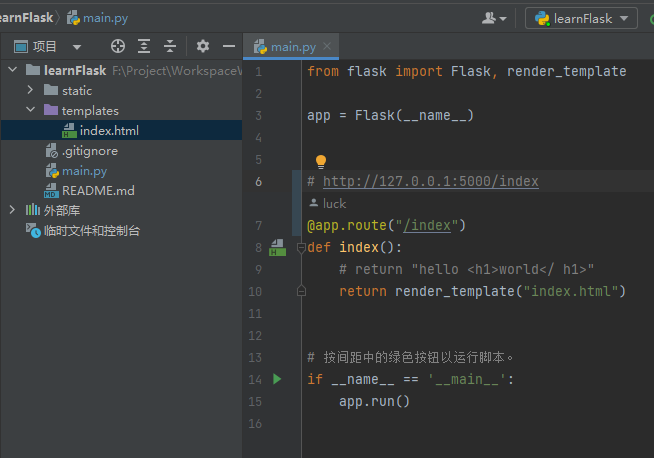
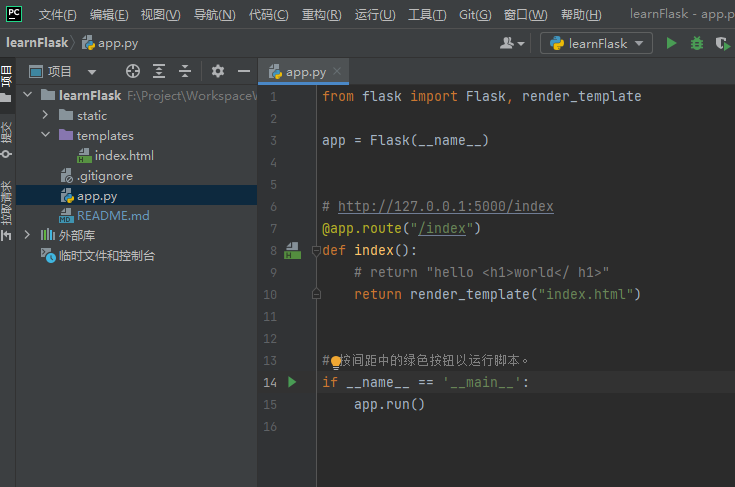
init

diff --git a/templates/user_list.html b/templates/user_list.html
@@ -1,0 +1,32 @@
+<!DOCTYPE html>
+<html lang="en">
+<head>
+    <meta charset="UTF-8">
+    <title>Title</title>
+</head>
+<body>
+<h1>{{title}}</h1>
+    <table>
+        <thead>
+            <th>ID</th>
+            <th>用户名</th>
+            <th>年龄</th>
+        </thead>
+        <tbody>
+        {% for item in data_list %}
+            <tr>
+                <td>{{ item.id }}</td>
+                <td>{{ item.name }}</td>
+                <td>{{ item.age }}</td>
+                <td>
+                    <a href="/user/delete/?nid={{ item.id }}">删除</a>
+                </td>
+                <td>
+                    <a href="/user/change/?nid={{ item.id }}">修改</a>
+                </td>
+            </tr>
+        {% endfor %}
+        </tbody>
+    </table>
+</body>
+</html>

diff --git a/templates/login.html b/templates/login.html
@@ -1,0 +1,17 @@
+<!DOCTYPE html>
+<html lang="en">
+<head>
+    <meta charset="UTF-8">
+    <title>Title</title>
+</head>
+<body>
+
+<h1>用户登录</h1>
+<form method="post" action="/login">
+    用户名：<input type="text" name="user">
+    密码：<input type="password" name="password">
+    年龄：<input type="text" name="age">
+    <input type="submit" value="提交"/>
+</form>
+</body>
+</html>

diff --git a/templates/index.html b/templates/index.html
@@ -6,6 +6,5 @@
 </head>
 <body>
 <h1>hello world</h1>
-
 </body>
 </html>

diff --git a/app.py b/app.py
@@ -1,13 +1,88 @@
-from flask import Flask, render_template
+from flask import Flask, render_template, request, redirect
+import pymysql
 
 app = Flask(__name__)
+sql_config = {
+    "host": "127.0.0.1",
+    "port": 3306,
+    "user": "root",
+    "password": "123456",
+    "db": "test",
+    "charset": "utf8mb4",
+    "cursorclass": pymysql.cursors.DictCursor
+}
 
 
 # http://127.0.0.1:5000/index
-@app.route("/index")
+@app.route("/index/")
 def index():
     # return "hello <h1>world</ h1>"
     return render_template("index.html")
+
+
+@app.route("/login/", methods=["GET", "POST"])
+def login():
+    if request.method == "GET":
+        # user = request.args.get("user")
+        # age = request.args.get("age")
+        # score = request.args.get("pwd")
+        return render_template("login.html")
+    elif request.method == "POST":
+        user = request.form.get("user")
+        password = request.form.get("password")
+        age = request.form.get("age")
+        # 增（千万不要用字符串格式化容易被SQL注入比如format，应该用占位符）
+        conn = pymysql.connect(**sql_config)
+        cursor = conn.cursor()
+        sql_str = "insert into dashboard_userinfo(name, password, age) values(%(name)s,  %(password)s, %(age)s)"
+        cursor.execute(sql_str, {"name": user, "password": password, "age": int(age)})
+        conn.commit()
+        cursor.close()
+        conn.close()
+        return redirect("/user/list")
+    return "界面异常"
+
+
+@app.route("/user/list/")
+def user_list():
+    conn = pymysql.connect(**sql_config)
+    cursor = conn.cursor()
+    # 查
+    sql_str = "select * from dashboard_userinfo"
+    cursor.execute(sql_str)
+    data_list = cursor.fetchall()
+    print(data_list)
+    cursor.close()
+    conn.close()
+    return render_template("user_list.html", title="传入的标题", data_list=data_list)
+
+
+@app.route("/user/delete/")
+def user_delete():
+    nid = request.args.get("nid")
+    # 删
+    conn = pymysql.connect(**sql_config)
+    cursor = conn.cursor()
+    sql_str = "delete from dashboard_userinfo where id=%s"
+    cursor.execute(sql_str, [nid])
+    conn.commit()
+    cursor.close()
+    conn.close()
+    return redirect("/user/list")
+
+
+@app.route("/user/change/")
+def user_change():
+    nid = request.args.get("nid")
+    # 改
+    conn = pymysql.connect(**sql_config)
+    cursor = conn.cursor()
+    sql_str = "update dashboard_userinfo set age=%s where id=%s"
+    cursor.execute(sql_str, [0, nid])
+    conn.commit()
+    cursor.close()
+    conn.close()
+    return redirect("/user/list")
 
 
 # 按间距中的绿色按钮以运行脚本。

diff --git a/README.md b/README.md
@@ -3,175 +3,11 @@
 ## 创建项目
 
 - 本地安装flask库：python -m pip install flask
-- pycharm创建项目选择本地解释器
-- 新建main.py
+- pycharm创建项目注册app绑定url
+![Alt text](/static/img/Flask/flask安装1.png)
+- templates文件夹存放html文件
+- static文件夹存放代码图片和库
 
-```{.html}
-from flask import Flask, render_template
+### MySql
 
-app = Flask(__name__)
-
-
-# http://127.0.0.1:5000/show/info
-@app.route("/show/info")
-def index():
-    # return "hello <h1>world</ h1>"
-    # index.html在templates文件夹下
-    return render_template("index.html")
-
-
-# 按间距中的绿色按钮以运行脚本。
-if __name__ == '__main__':
-    app.run()
-```
-
-- 打开pycharm终端运行pip install flask
-- 根目录新建learn_web.py
-
-```{.py}
-# -*- coding: UTF-8 -*
-# templates文件夹存放html文件
-# static文件夹存放图片
-from flask import Flask, render_template  # pip install flask
-import pymysql # pip install pymysql
-
-# 新建app类
-app = Flask(__name__)
-sql_config = {
-    "host": "127.0.0.1",
-    "port": 3306,
-    "user": "root",
-    "password": "123456",
-    "db": "test",
-    "charset": "utf8mb4",
-    "cursorclass": pymysql.cursors.DictCursor
-}
-
-# 创建了网址 /show/info 和函数index的对应关系
-@app.route("/show/info")
-def index():
-    # 读取文本的字符串并返回
-    # return "内容"
-    # 连接mysql
-    conn = pymysql.connect(**sql_config)
-    cursor = conn.cursor()
-    # 查
-    sql_str = "select * from tb1"
-    cursor.execute(sql_str)
-    data_list = cursor.fetchall()
-    print(data_list)
-    # 关闭
-    cursor.close()
-    conn.close()
-    return render_template("index.html", title="传入的标题", data_list=data_list)
-
-@app.route("/show/more")
-def show_more():
-    return "<h1>标题</h1>返回简单字符串"
-
-if __name__ == '__main__':
-    app.run()
-```
-
-- get请求：向后台传入的数据会拼接在url上，数据之间用&,网址和数据之间用?
-- post请求：提交的数据不在url中而是在请求体中
-
-```{.py}
-# 只能通过get方式调用
-@app.route("/get/reg", methods=["GET"])
-def get_reg():
-    # 读取文本的字符串并返回
-    print(request.args.get("user"))
-    print(request.args.get("pwd"))
-    return "注册成功"
-
-
-# 只能通过post方式调用
-@app.route("/post/reg", methods=["POST"])
-def post_reg():
-    # 读取文本的字符串并返回
-    print(request.form.get("user"))
-    print(request.form.get("pwd"))
-    return "注册成功"
-
-
-# get或者post方式调用
-@app.route("/reg", methods=["GET", "POST"])
-def reg():
-    user = ""
-    pwd = ""
-    age = ""
-    # 连接mysql
-    conn = pymysql.connect(**sql_config)
-    cursor = conn.cursor()
-
-    if request.method == "GET":
-        user = request.args.get("user")
-        pwd = request.args.get("pwd")
-        age = request.args.get("age")
-        # 增（千万不要用字符串格式化容易被SQL注入比如format，应该用占位符）
-        sql_str = "insert into tb1(name, age) values(%(name)s, %(age)s)"
-        cursor.execute(sql_str, {"name": user, "age": int(age)})
-        conn.commit()
-    elif request.method == "POST":
-        user = request.form.get("user")
-        pwd = request.form.get("pwd")
-        age = request.form.get("age")
-        # 删
-        sql_str = "delete from tb1 where id=%s"
-        cursor.execute(sql_str, [1])
-        conn.commit()
-        # 改
-        sql_str = "update tb1 set score=%d where id=%s"
-        cursor.execute(sql_str, [0, 1])
-        conn.commit()
-    # 关闭
-    cursor.close()
-    conn.close()
-    return "添加成功"
-```
-
-```{.html}
-<!DOCTYPE html>
-<html lang="en">
-<head>
-    <meta charset="UTF-8">
-    <title>Title</title>
-</head>
-<body>
-    <!-- form标签包裹数据，里面定义提交方式，提交地址 -->
-    <!-- 必须包含一个submit, 一定要有那么属性 -->
-    <form method="get" action="/get/reg">
-        用户名: <input type="text" name="user" />
-        密码: <input type="password" name="pwd" />
-        <input type="submit" value="get提交表单">
-    </form>
-
-    <form method="get" action="/reg">
-        <input type="text" name="user" placeholder="用户名">
-        <input type="text" name="pwd" placeholder="密码">
-        <input type="text" name="age" placeholder="年龄">
-        <input type="submit" value="提交表单">
-    </form>
-
-    <h1>{{title}}</h1>
-    <table>
-        <thead>
-            <th>ID</th>
-            <th>用户名</th>
-            <th>年龄</th>
-        </thead>
-        <tbody>
-        {% for item in data_list %}
-            <tr>
-                <td>{{ item.id }}</td>
-                <td>{{ item.name }}</td>
-                <td>{{ item.age }}</td>
-            </tr>
-        {% endfor %}
-        </tbody>
-    </table>
-    </table>
-</body>
-</html>
-```
+- 安装 pymysql(pip install pymysql)
